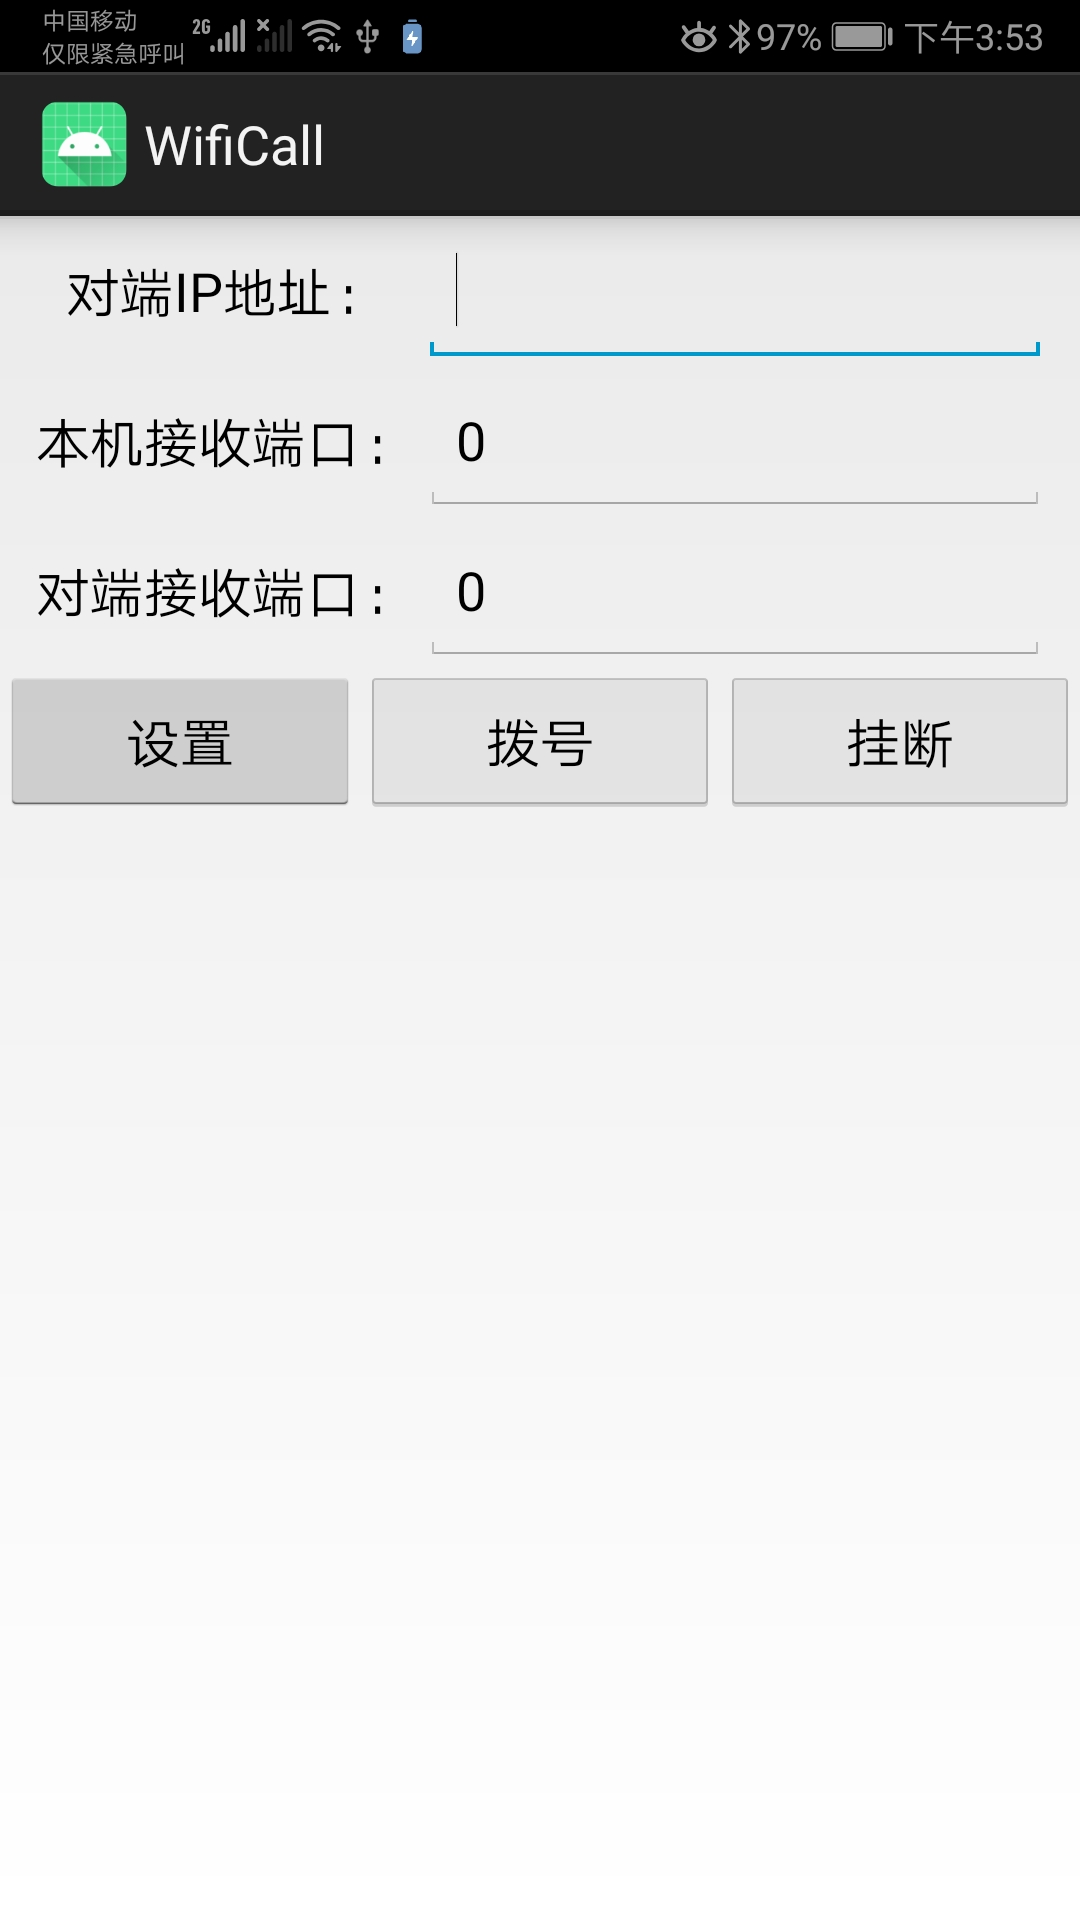
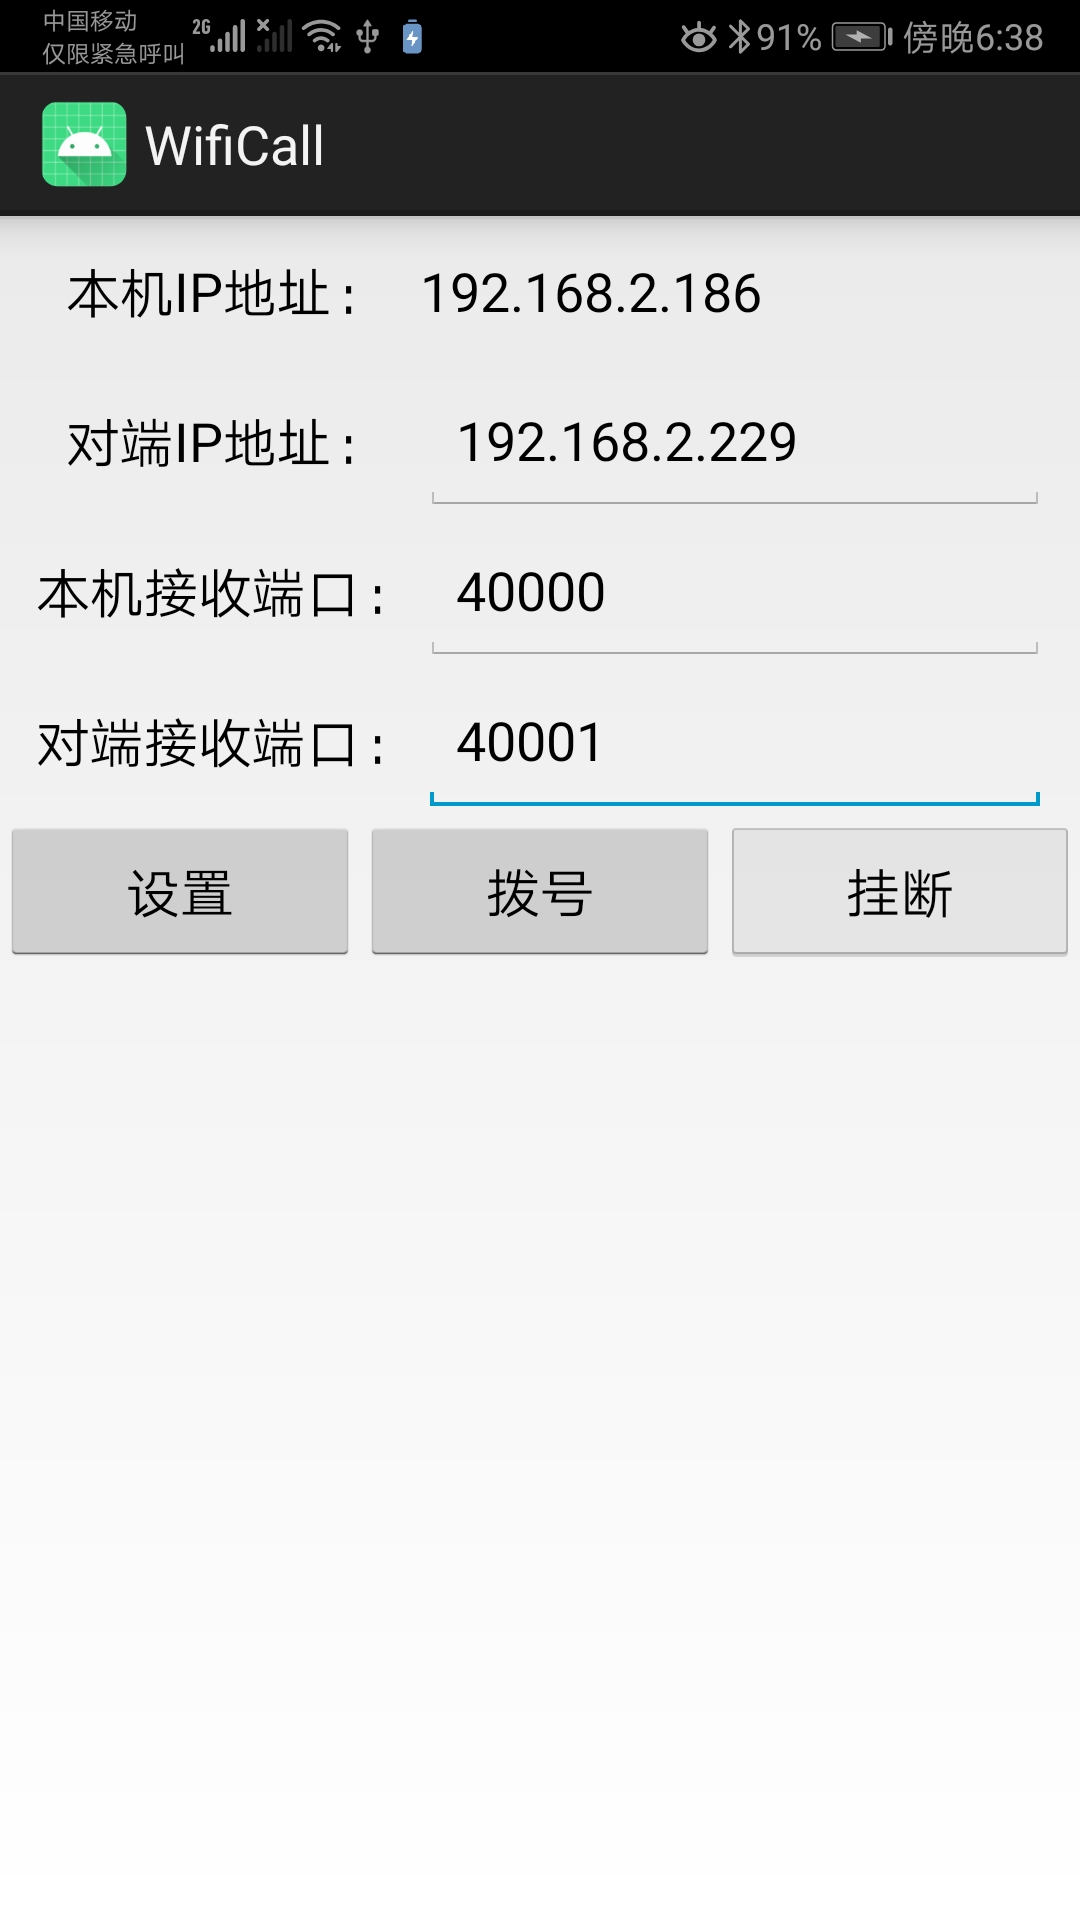
add local ip display

diff --git a/app/src/main/java/com/jiaze/wificall/call/WifiCallManager.java b/app/src/main/java/com/jiaze/wificall/call/WifiCallManager.java
@@ -271,35 +271,41 @@ public class WifiCallManager {
 
     private void closeReceiverThread() {
         try {
-            WifiManager wifiManager = (WifiManager) mService.getApplicationContext()
-                    .getSystemService(Context.WIFI_SERVICE);
-            if (wifiManager != null) {
-                String ip = intToIp(wifiManager.getDhcpInfo().ipAddress);
-                InetAddress inetAddress = InetAddress.getByName(ip);
-                byte[] data = CLOSE.getBytes();
-                DatagramPacket datagramPacket = new DatagramPacket(data, data.length, inetAddress, mReceiverPort);
-                new Thread(new Runnable() {
-                    @Override
-                    public void run() {
-                        try {
-                            mReceiverSocket.send(datagramPacket);
-                        } catch (IOException e) {
-                            e.printStackTrace();
-                        }
+            String ip = getLocalIpAddress();
+            InetAddress inetAddress = InetAddress.getByName(ip);
+            byte[] data = CLOSE.getBytes();
+            DatagramPacket datagramPacket = new DatagramPacket(data, data.length, inetAddress, mReceiverPort);
+            new Thread(new Runnable() {
+                @Override
+                public void run() {
+                    try {
+                        mReceiverSocket.send(datagramPacket);
+                    } catch (IOException e) {
+                        e.printStackTrace();
                     }
-                }).start();
-                Thread.sleep(150);
-            }
+                }
+            }).start();
+            Thread.sleep(150);
         } catch (Exception e) {
             e.printStackTrace();
         }
     }
 
     private String intToIp(int i) {
-        return (i & 0xFF ) + "." +
-                ((i >> 8 ) & 0xFF) + "." +
-                ((i >> 16 ) & 0xFF) + "." +
-                ( i >> 24 & 0xFF) ;
+        return (i & 0xFF) + "." +
+                ((i >> 8) & 0xFF) + "." +
+                ((i >> 16) & 0xFF) + "." +
+                (i >> 24 & 0xFF) ;
+    }
+
+    public String getLocalIpAddress() {
+        WifiManager wifiManager = (WifiManager) mService.getApplicationContext()
+                .getSystemService(Context.WIFI_SERVICE);
+        String ip = null;
+        if (wifiManager != null) {
+            ip = intToIp(wifiManager.getDhcpInfo().ipAddress);
+        }
+        return ip;
     }
 
     public int getSendPort() {

diff --git a/app/src/main/java/com/jiaze/wificall/MainActivity.java b/app/src/main/java/com/jiaze/wificall/MainActivity.java
@@ -11,6 +11,7 @@ import android.text.TextUtils;
 import android.view.View;
 import android.widget.Button;
 import android.widget.EditText;
+import android.widget.TextView;
 import android.widget.Toast;
 
 import com.jiaze.wificall.call.WifiCallManager;
@@ -28,6 +29,7 @@ public class MainActivity extends Activity implements View.OnClickListener, Serv
     private static final int REQUEST_CODE_PERMISSION = 10000;
     private static final int MSG_UPDATE_WIFI_CALL_STATE = 0;
 
+    private TextView mTvIp;
     private EditText mEtIp;
     private EditText mEtReceiverPort;
     private EditText mEtSenderPort;
@@ -76,6 +78,7 @@ public class MainActivity extends Activity implements View.OnClickListener, Serv
     }
 
     private void initView() {
+        mTvIp = (TextView) findViewById(R.id.tv_ip);
         mEtIp = (EditText) findViewById(R.id.et_ip);
         mEtSenderPort = (EditText) findViewById(R.id.et_sender_port);
         mEtReceiverPort = (EditText) findViewById(R.id.et_receiver_port);
@@ -114,6 +117,7 @@ public class MainActivity extends Activity implements View.OnClickListener, Serv
 
             mEtReceiverPort.setText(String.valueOf(receiverPort));
             mEtSenderPort.setText(String.valueOf(senderPort));
+            mTvIp.setText(mService.getLocalIpAddress());
             mEtIp.setText(ip);
             mService.registerWifiCallListener(mCallStateListener);
         }
@@ -213,6 +217,7 @@ public class MainActivity extends Activity implements View.OnClickListener, Serv
         mBtnConfigure.setEnabled(true);
         mEtReceiverPort.setText(String.valueOf(mService.getReceiverPort()));
         mEtSenderPort.setText(String.valueOf(mService.getSenderPort()));
+        mTvIp.setText(mService.getLocalIpAddress());
         mEtIp.setText(mService.getReceiverIp());
         mService.registerWifiCallListener(mCallStateListener);
     }

diff --git a/app/src/main/java/com/jiaze/wificall/MyService.java b/app/src/main/java/com/jiaze/wificall/MyService.java
@@ -78,4 +78,8 @@ public class MyService extends Service {
     public String getReceiverIp() {
         return mWifiCallManager.getReceiverIp();
     }
+
+    public String getLocalIpAddress() {
+        return mWifiCallManager.getLocalIpAddress();
+    }
 }

diff --git a/README.md b/README.md
@@ -2,17 +2,17 @@
 Implements the voice call function between devices that in the same wlan through UDP communication  
 通过UDP通信实现同一局域网设备之间语音通话功能  
 
-## 使用方法
-1.两台设备都安装此应用，按照提示给对应的权限  
-2.两台设备连接同一个WiFi，或者其中一台设备开启热点，另外一台设备连接这个热点  
-3.当两台设备在同一个局域网之后。在手机的WLAN设置中查询自己手机当前的IP地址，然后在应用中设置。  
+## 使用方法 
+1.两台设备连接同一个WiFi，或者其中一台设备开启热点，另外一台设备连接这个热点  
+2.当两台设备连接网络且在同一个局域网后。打开应用，按提示授予权限   
+3.输入IP地址，端口号，点击设置按钮。完成设置之后即可拨打电话  
 
 ## 使用演示
 1.配置界面：  
 <img src="./testUI.png" width="360" height="640"/>  
 
 2.ip地址和端口示例:  
-手机1的ip地址：192.168.2.229， 手机2的ip地址：192.168.2.186  
+手机1的ip地址：192.168.2.229， 手机2的ip地址：192.168.2.186    
 手机1的配置信息填写：  
 192.168.2.186  
 40001  
